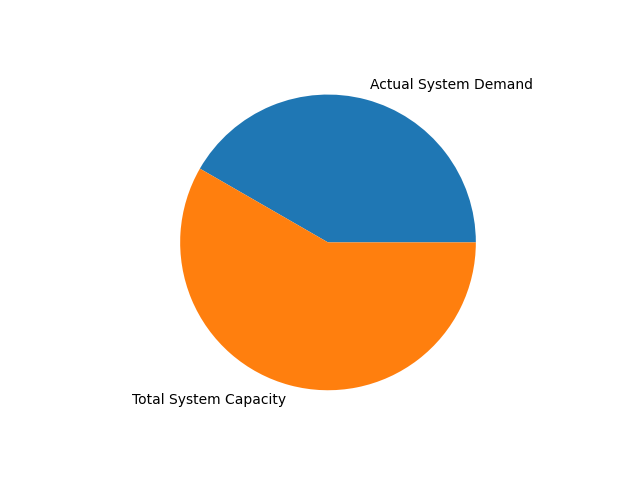
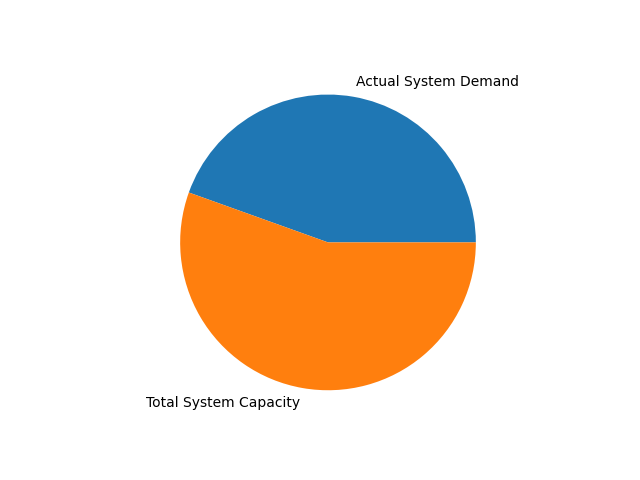
fix matplotlib bitmap error

Changed region(s): [[0.2812, 0.3438, 0.5, 0.5], [0.1875, 0.8125, 0.4688, 0.875], [0.5625, 0.1562, 0.8438, 0.1875]]

diff --git a/responses.py b/responses.py
@@ -3,7 +3,9 @@ import discord
 import bot
 import main
 from datetime import datetime
+import matplotlib
 import matplotlib.pyplot as plt
+matplotlib.use("Agg")  # fix for 'Fail to allocate bitmap' error
 
 
 def handle_response(message) -> bool:
